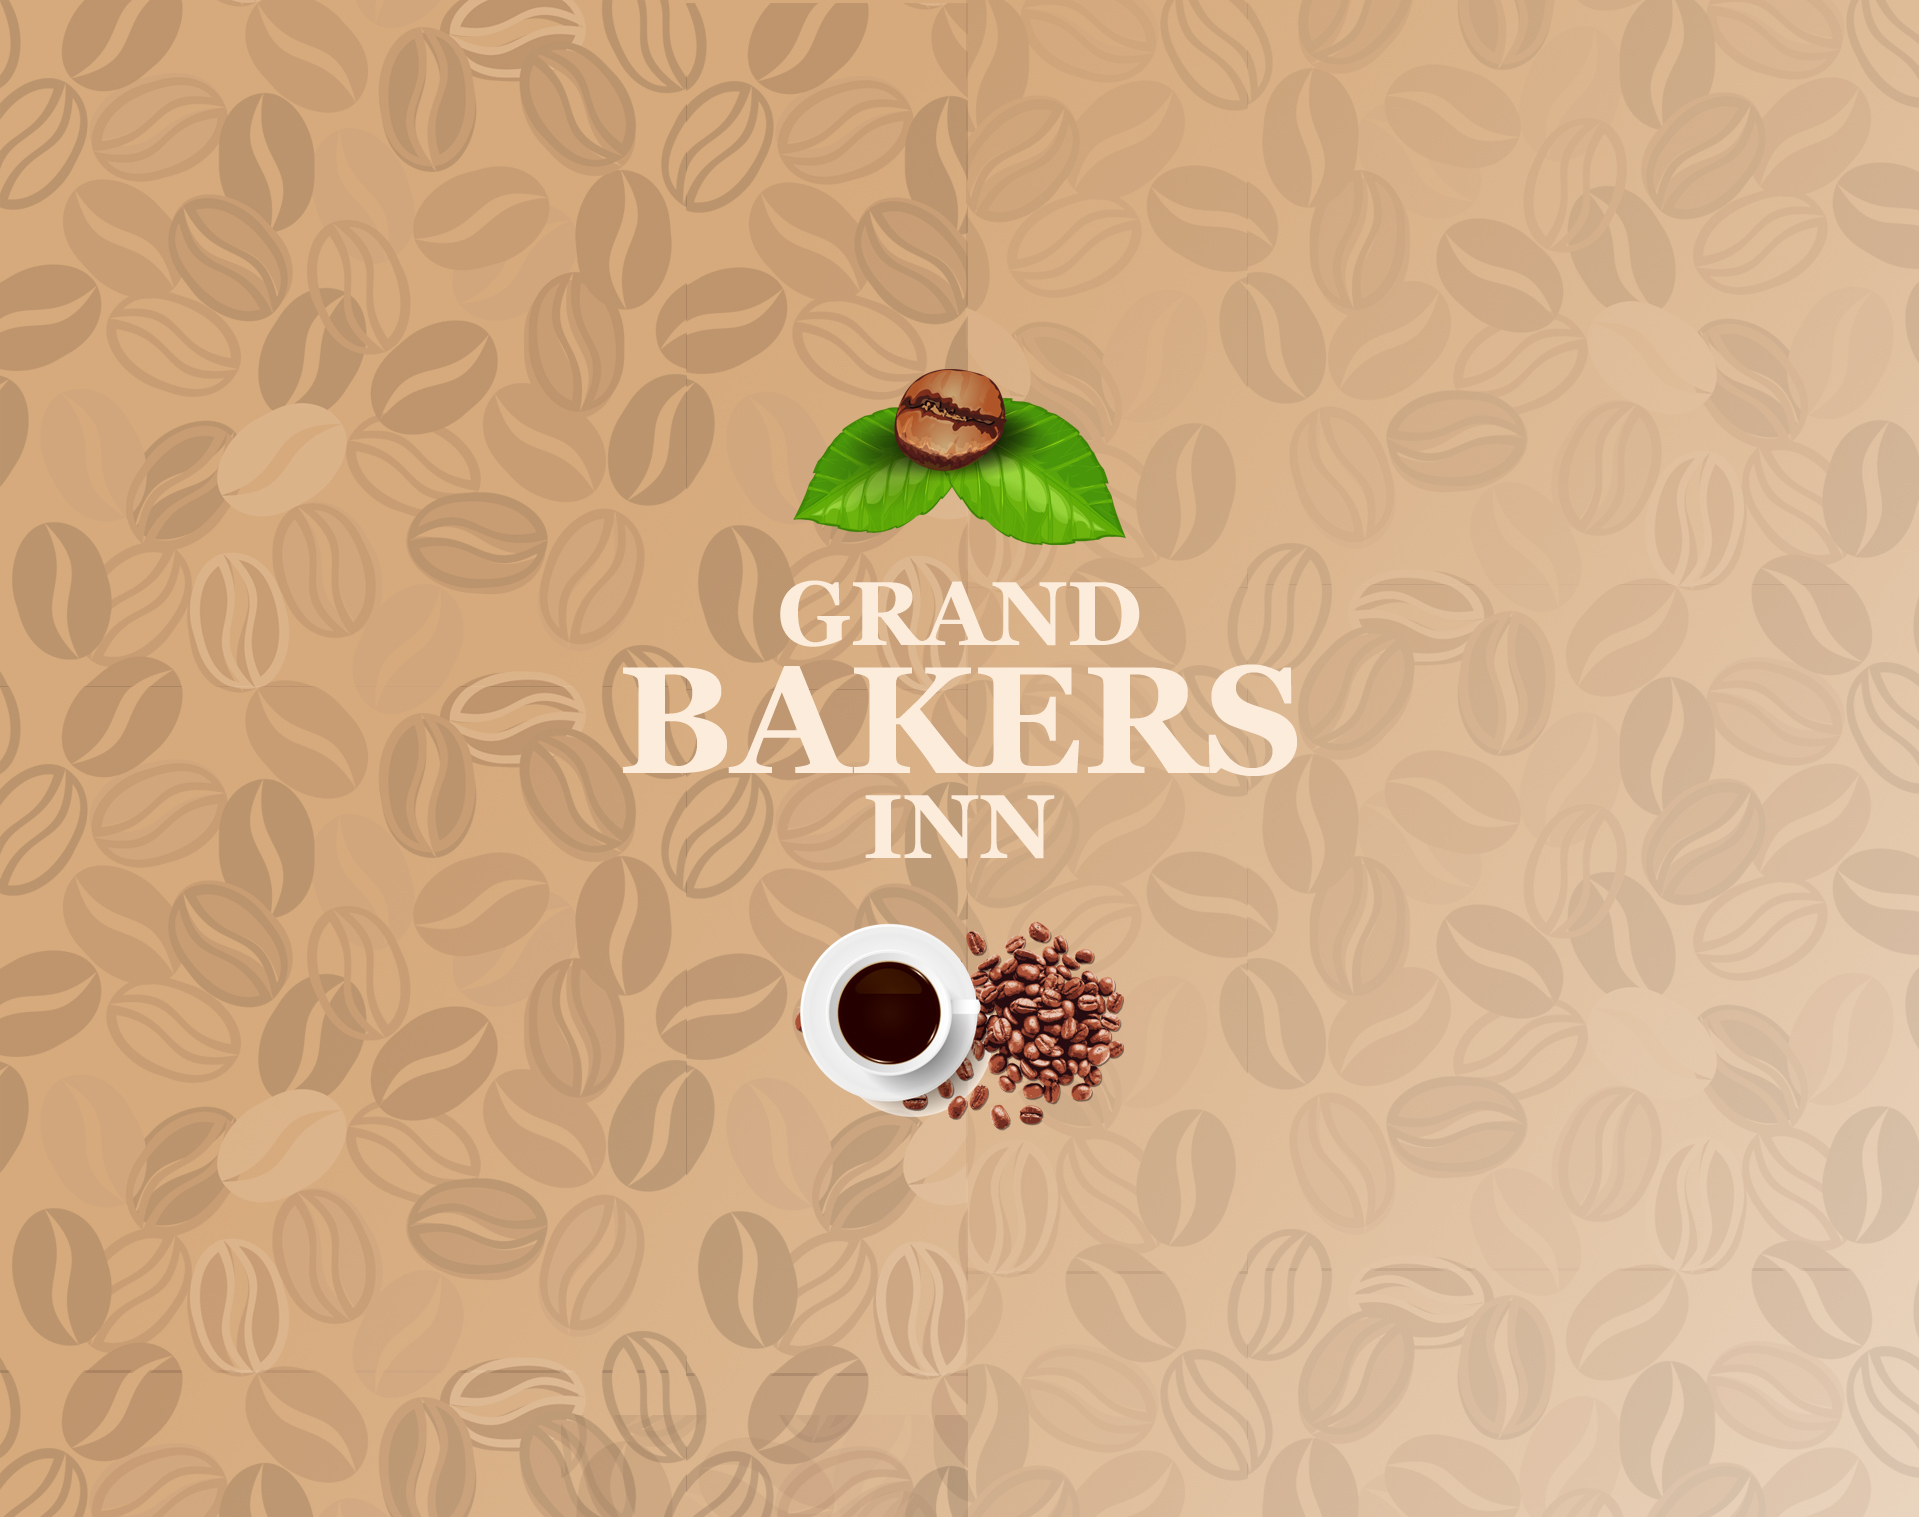
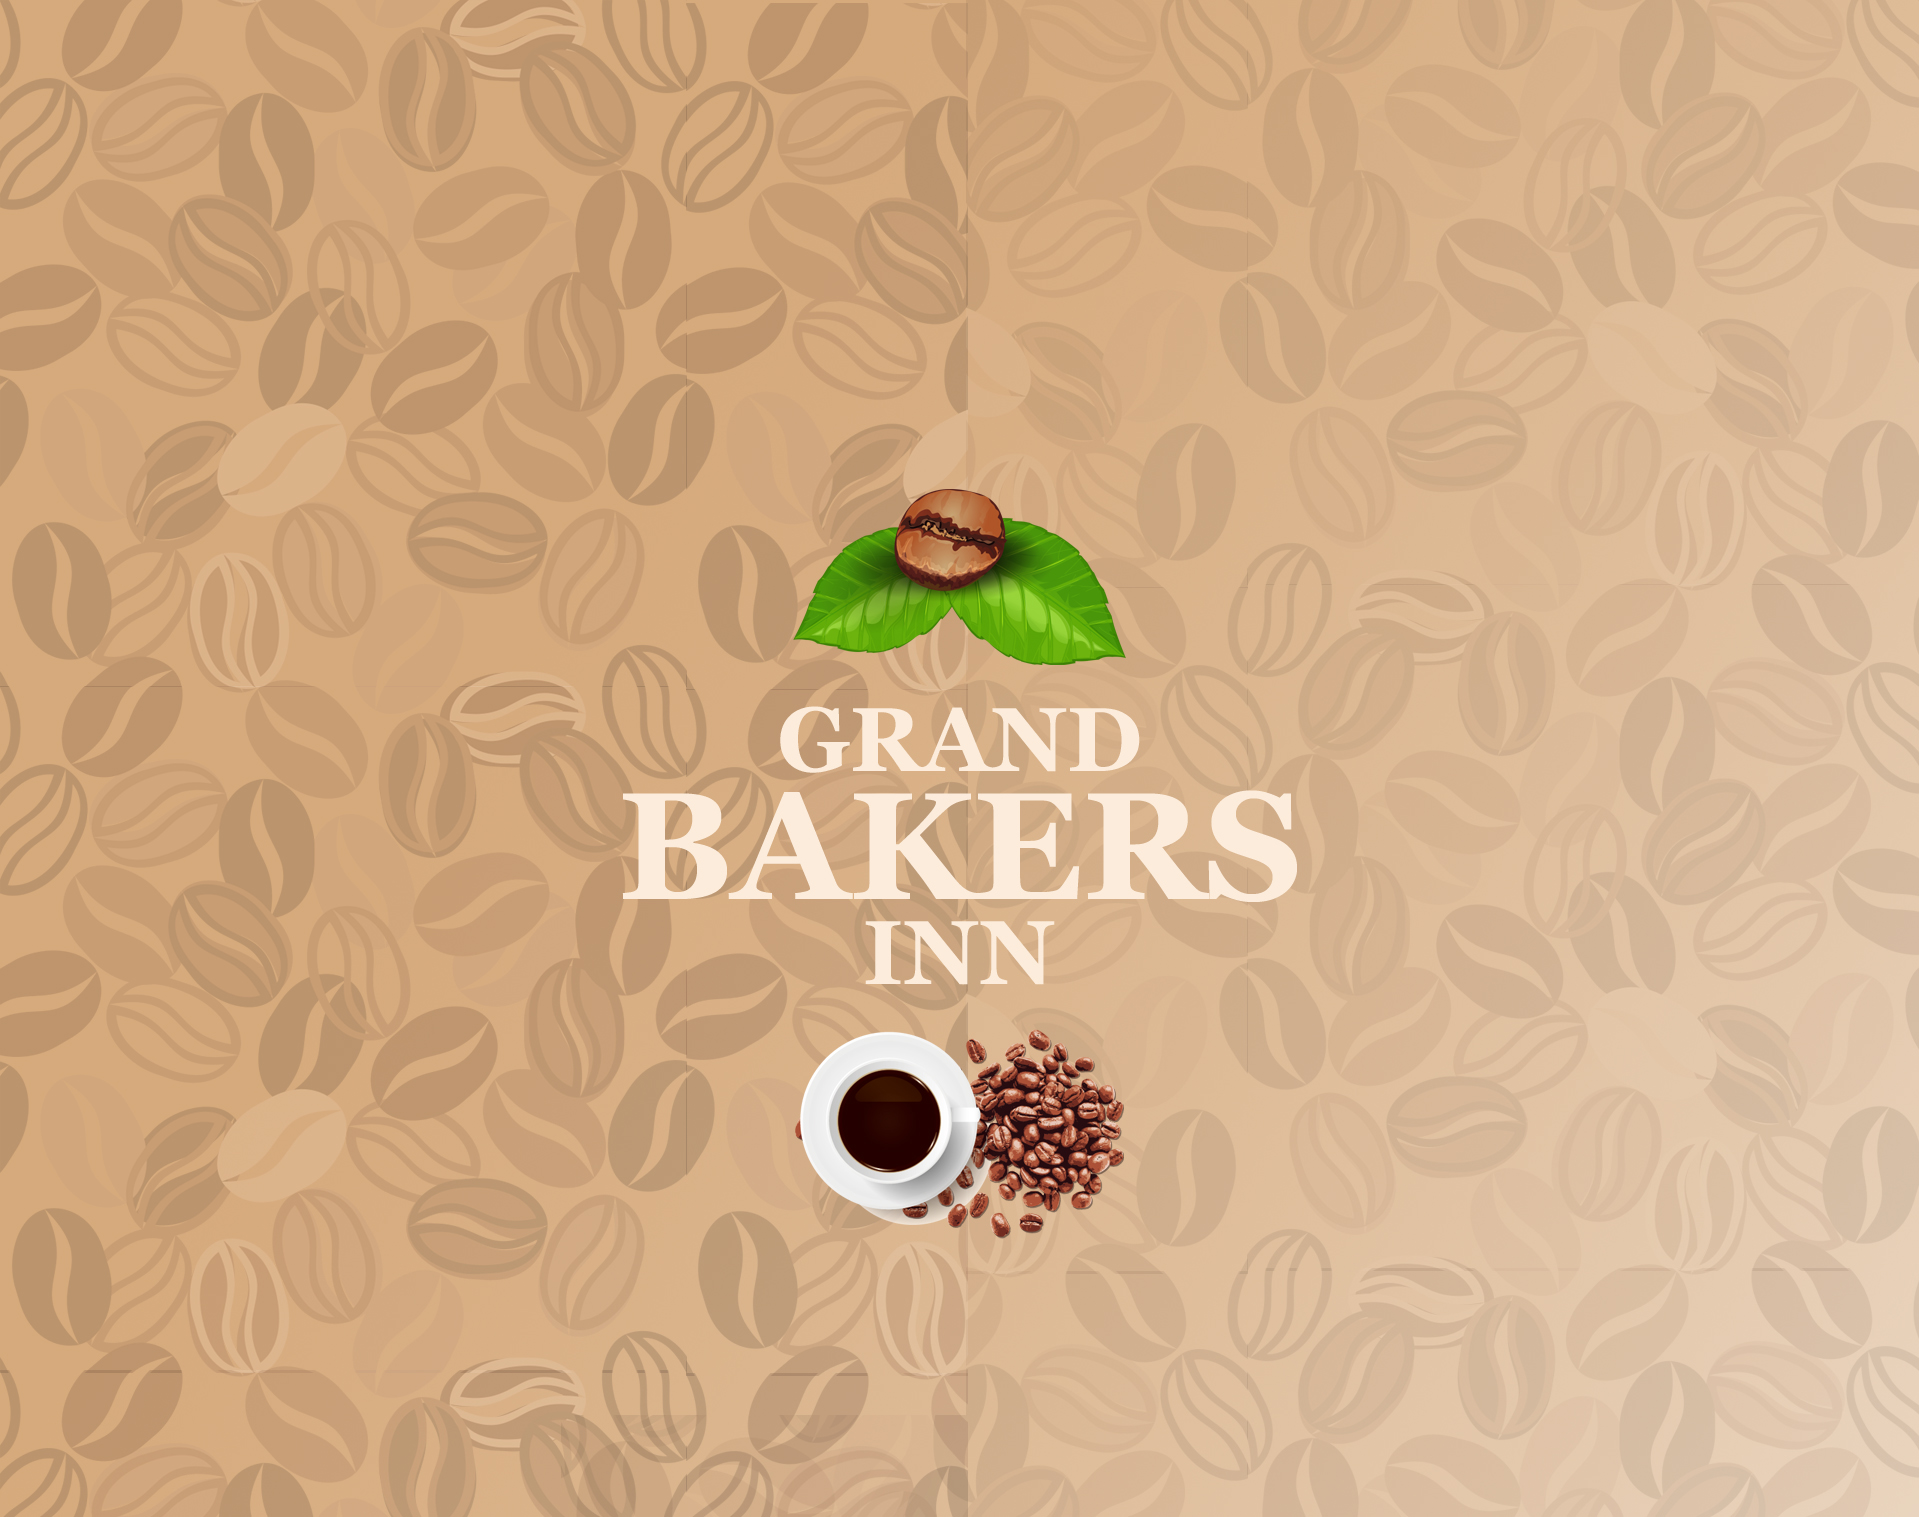
fixed the design issues

Changed region(s): [[0.3075, 0.2479, 0.6764, 0.8365]]

diff --git a/grandmenu.html b/grandmenu.html
@@ -37,34 +37,26 @@
 	        	<div class="bcg">
 		        	<div class="hsContainer">
 			    		<div class="hsContent textcenter">  
+                <div class="icontable">
+                  <table>
+                    <tbody>
+                      <tr>
+                        <td><a href="#slide-2"><img src="images/icons/teaicon.png" width="45"></a></td>
+                        <td><a href="#slide-4"><img src="images/icons/burderiic.png" width="35"></a></td>
+                        <td><a href="#slide-6"><img src="images/icons/iceicon.png" width="40"></a></td>
+                      </tr>
+                      <tr>
+                        <td>Beverages</td>
+                        <td>Snacks</td>
+                        <td>Desserts</td>
+                      </tr>
+                    </tbody>
+                  </table>
+                </div>
               </div> 
               </div> 
 	        	</div>
-        </section>
-        <section id="slide-1" class="homeSlideIcon">
-          <div class="bcg">
-            <div class="hsContainer">
-            <div class="hsContent textcenter">   
-              <div class="icontable">
-                <table>
-                  <tbody>
-                    <tr>
-                      <td><a href="#slide-2"><img src="images/icons/teaicon.png" width="45"></a></td>
-                      <td><a href="#slide-4"><img src="images/icons/burderiic.png" width="35"></a></td>
-                      <td><a href="#slide-6"><img src="images/icons/iceicon.png" width="40"></a></td>
-                    </tr>
-                    <tr>
-                      <td>Beverages</td>
-                      <td>Snacks</td>
-                      <td>Desserts</td>
-                    </tr>
-                  </tbody>
-                </table>
-              </div>
-            </div> 
-            </div> 
-          </div>
-      </section>
+        </section> 
 		    
 		    <section id="slide-2" class="homeSlide">
 		    	<div class="bcg">

diff --git a/Js/main.js b/Js/main.js
@@ -13,8 +13,7 @@
 	// Setup variables
 	$window = $(window);
 	$slide = $('.homeSlideone');
-	$homeslide = $('.homeSlide');
-	$homeSlideIcon=$('.homeSlideIcon');
+	$homeslide = $('.homeSlide'); 
 	$beverageshomeSlide = $('.beverageshomeSlide');
 	$snackshomeSlide = $('.snackshomeSlide');
 	$snacksmenuhomeSlide = $('.snacksmenuhomeSlide');
@@ -48,9 +47,8 @@
 			winH = 550;
 		}   
 	    // Resize our slides
-		$slide.height(498);
-		$homeslide.height(600);
-		$homeSlideIcon.height(95);
+		$slide.height(600);
+		$homeslide.height(600); 
 		$beverageshomeSlide.height(617);
 		$snackshomeSlide.height(530);
 		$snacksmenuhomeSlide.height(690);

diff --git a/css/main.css b/css/main.css
@@ -189,7 +189,7 @@ main {
     .icontable table{
         width: 100%;
     } 
-    .icontable table tr{
+    .icontable table  tr{
         color:#d7adc1;
         font-weight: bold;
     }
